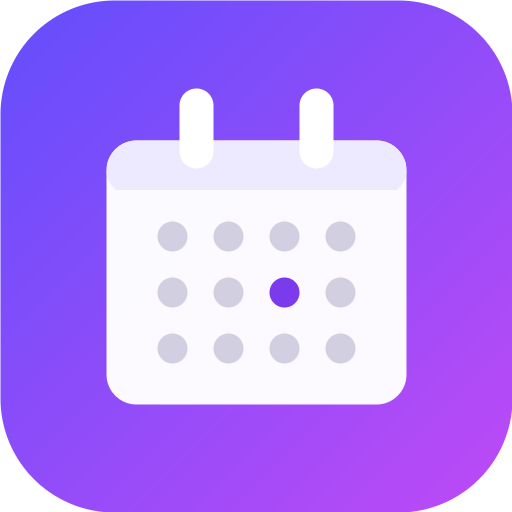
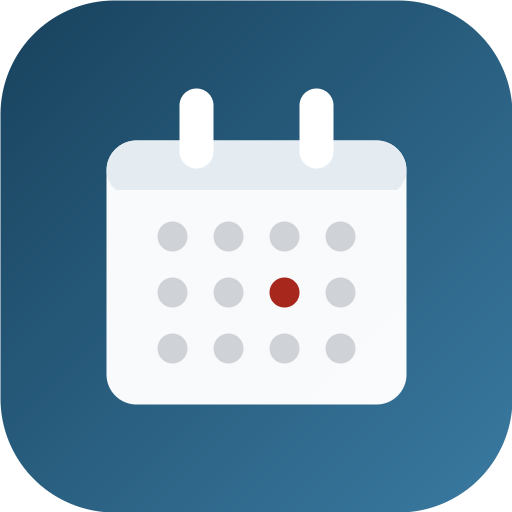
Restyle: ink on paper, and drop the generic identity
The old look was competent but templated -- a violet-to-magenta gradient on
white, one radius and one shadow stamped on every block, a coloured rail down
the side of every card, emoji standing in for illustration. Every one of those
is on the list of things that make a design read as generated rather than
designed, and together they said nothing about what this app is for.

KevCal's subject is paper: school letters, appointment cards, franked
reminders. The design now comes from there.

Colour. Ground is #fcfbf8, a barely-warm white that reads as stock rather than
as default grey; ink is #15161a; hairlines are the colour of a ruled form. The
accent is a single deep ink blue, #1b4965 -- the colour of a pen on a form --
and the two-hue gradient is gone entirely, replaced by a tonal one where a
gradient still earns its place. Semantic colour stays separate from the accent
and does real work: stamp red for deadlines, amber for "worth a check".

Type. Three roles, all native: ui-serif (New York on Apple platforms) for
display, the system sans for interface, mono for quoted source text. No webfont
on purpose -- this app has to work with the wifi off, and it should not announce
every page view to a font host.

The date chip is now a date stamp: ruled block, month in tracked caps, the day
set in the serif and tinted stamp red when it is a deadline. It is the thing
you look at most, so it is the one place the design raises its voice.
[…]

diff --git a/public/styles.css b/public/styles.css
@@ -3,33 +3,41 @@
    for is the moment the letter is in your hand. */
 
 :root {
-  --bg:        #f4f3ef;
-  --bg-2:      #eceae4;
+  /* Paper, ink, and a ruled hairline. The neutrals lean very slightly warm so
+     they read as stock rather than as default grey; the accent is cool against
+     them on purpose. */
+  --bg:        #fcfbf8;
+  --bg-2:      #f3f1ea;
   --surface:   #ffffff;
-  --surface-2: #f7f6f3;
-  --ink:       #17161c;
-  --ink-2:     #3d3b47;
-  --muted:     #74717f;
-  --line:      #e4e1da;
-  --line-2:    #d6d2c9;
+  --surface-2: #f7f5f0;
+  --ink:       #15161a;
+  --ink-2:     #3f414a;
+  --muted:     #71727d;
+  --line:      #e7e4dc;
+  --line-2:    #d5d1c6;
 
-  --brand:     #6d4efc;
-  --brand-2:   #b44cf0;
+  /* One accent: ink blue, the colour of a pen on a form. */
+  --brand:     #1b4965;
+  --brand-2:   #2f6d92;
   --brand-ink: #ffffff;
-  --brand-soft:#efeaff;
+  --brand-soft:#e8eff4;
 
-  --warn:      #b26a00;
-  --warn-bg:   #fff4e0;
-  --warn-line: #f2c879;
-  --stop:      #c62f45;
-  --stop-bg:   #ffeced;
-  --stop-line: #f0a3ad;
-  --ok:        #0a8a5f;
-  --ok-bg:     #e4f7ef;
+  /* Semantic, and deliberately not the accent: a deadline is stamp red. */
+  --warn:      #8a5a00;
+  --warn-bg:   #fdf3de;
+  --warn-line: #e8cd93;
+  --stop:      #a8271d;
+  --stop-bg:   #fbeae8;
+  --stop-line: #e5b0aa;
+  --ok:        #1a6b4c;
+  --ok-bg:     #e6f2ec;
 
-  --grad: linear-gradient(135deg, var(--brand), var(--brand-2));
-  --r:    18px;
-  --r-sm: 12px;
+  --display: ui-serif, 'New York', Iowan Old Style, Georgia, serif;
+
+  /* Tonal, not a hue shift — the two-colour gradient is gone. */
+  --grad: linear-gradient(165deg, var(--brand-2), var(--brand));
+  --r:    14px;
+  --r-sm: 10px;
   --shadow:    0 1px 2px rgba(20,16,40,.05), 0 8px 24px -12px rgba(20,16,40,.18);
   --shadow-lg: 0 12px 48px -12px rgba(20,16,40,.35);
   --spring: cubic-bezier(.22,1.2,.36,1);
@@ -41,28 +49,28 @@
 
 @media (prefers-color-scheme: dark) {
   :root {
-    --bg:        #0d0d13;
-    --bg-2:      #14141c;
-    --surface:   #1a1a24;
-    --surface-2: #22222e;
-    --ink:       #f2f1f7;
-    --ink-2:     #d3d1de;
-    --muted:     #9a97a9;
-    --line:      #2b2b38;
-    --line-2:    #3a3a4a;
+    --bg:        #121317;
+    --bg-2:      #181a1f;
+    --surface:   #1b1d22;
+    --surface-2: #23262c;
+    --ink:       #f1f0ec;
+    --ink-2:     #cfcfc9;
+    --muted:     #94958f;
+    --line:      #2c2f35;
+    --line-2:    #3c4047;
 
-    --brand:     #8b74ff;
-    --brand-2:   #cd6dff;
-    --brand-soft:#241f43;
+    --brand:     #7fb3d0;
+    --brand-2:   #5d93b3;
+    --brand-soft:#1c2c36;
 
-    --warn:      #f6c063;
-    --warn-bg:   #33270f;
-    --warn-line: #6b5220;
-    --stop:      #ff8b9b;
-    --stop-bg:   #391a20;
-    --stop-line: #6e2f3a;
-    --ok:        #4fd6a3;
-    --ok-bg:     #10312a;
+    --warn:      #e8b765;
+    --warn-bg:   #2e2412;
+    --warn-line: #5d4a24;
+    --stop:      #e89189;
+    --stop-bg:   #331c1a;
+    --stop-line: #6b3630;
+    --ok:        #6dc3a1;
+    --ok-bg:     #142a23;
 
     --shadow:    0 1px 2px rgba(0,0,0,.4), 0 8px 24px -12px rgba(0,0,0,.7);
     --shadow-lg: 0 12px 48px -12px rgba(0,0,0,.8);
@@ -85,9 +93,11 @@ body {
 
 body.locked { overflow: hidden; }
 
-h1, h2, h3 { margin: 0; letter-spacing: -0.02em; line-height: 1.15; }
-h1 { font-size: 30px; font-weight: 800; }
-h2 { font-size: 20px; font-weight: 750; }
+h1, h2, h3 { margin: 0; line-height: 1.15; text-wrap: balance; }
+h1, h2 { font-family: var(--display); font-weight: 600; letter-spacing: -0.01em; }
+h1 { font-size: 31px; }
+h2 { font-size: 21px; }
+h3 { letter-spacing: -0.01em; }
 h3 { font-size: 16px; font-weight: 700; }
 p  { margin: 0; }
 b  { font-weight: 700; }
@@ -112,7 +122,7 @@ b  { font-weight: 700; }
 .topbar.stuck { border-bottom-color: var(--line); }
 .brand { display: flex; align-items: center; gap: 8px; font-weight: 800; font-size: 17px; letter-spacing: -.02em; }
 .brand img { border-radius: 7px; }
-.brand b { background: var(--grad); -webkit-background-clip: text; background-clip: text; color: transparent; }
+.brand b { color: var(--brand); font-weight: 700; }
 
 .chip-btn {
   font: inherit; font-size: 12px; font-weight: 650;
@@ -159,9 +169,9 @@ main { max-width: 620px; margin: 0 auto; padding: 0 16px; }
 
 .fab {
   justify-self: center;
-  width: 60px; height: 60px; margin-top: -22px;
-  border: 0; border-radius: 22px; cursor: pointer;
-  background: var(--grad); color: #fff;
+  width: 58px; height: 58px; margin-top: -20px;
+  border: 0; border-radius: 17px; cursor: pointer;
+  background: var(--brand); color: #fff;
   box-shadow: 0 8px 20px -6px color-mix(in srgb, var(--brand) 70%, transparent), 0 2px 6px rgba(0,0,0,.2);
   display: grid; place-items: center;
   transition: transform .25s var(--spring);
@@ -198,29 +208,38 @@ main { max-width: 620px; margin: 0 auto; padding: 0 16px; }
 .item:active { transform: scale(.985); }
 @keyframes pop { from { opacity: 0; transform: translateY(10px) scale(.98); } to { opacity: 1; transform: none; } }
 
-.item::before {
-  content: ''; position: absolute; left: 0; top: 0; bottom: 0; width: 4px;
-  background: transparent;
-}
-.item.stop::before { background: var(--stop); }
-.item.warn::before { background: var(--warn); }
-.item.stop { border-color: var(--stop-line); }
-.item.warn { border-color: var(--warn-line); }
+/* No accent rail. Severity is already carried by the stamp and the flag block;
+   a coloured bar on every card only flattens the hierarchy it claims to build. */
+.item.stop { border-color: var(--stop-line); background: color-mix(in srgb, var(--stop-bg) 42%, var(--surface)); }
+.item.warn { border-color: var(--warn-line); background: color-mix(in srgb, var(--warn-bg) 42%, var(--surface)); }
 .item.gone { opacity: .45; }
 
+/* A date stamp, not a chip: ruled block, month in tracked caps, day set in the
+   serif. It is the thing you look at most on this screen, so it is the one
+   place the design raises its voice. */
 .daychip {
-  flex: 0 0 auto; width: 52px; border-radius: 14px; overflow: hidden;
-  border: 1px solid var(--line); background: var(--surface-2); text-align: center;
+  flex: 0 0 auto; width: 54px; border-radius: 6px; overflow: hidden;
+  border: 1px solid var(--brand); background: var(--surface); text-align: center;
+  box-shadow: inset 0 0 0 2px var(--surface), inset 0 0 0 3px color-mix(in srgb, var(--brand) 18%, transparent);
 }
 .daychip .m {
-  font-size: 10px; font-weight: 800; letter-spacing: .08em; text-transform: uppercase;
-  padding: 3px 0; background: var(--grad); color: #fff;
+  font-size: 9.5px; font-weight: 700; letter-spacing: .14em; text-transform: uppercase;
+  padding: 3px 0 2px; background: var(--brand); color: #fff;
 }
-.daychip .d { font-size: 21px; font-weight: 800; padding: 4px 0 2px; font-variant-numeric: tabular-nums; }
-.daychip .w { font-size: 9.5px; font-weight: 700; color: var(--muted); padding-bottom: 5px; text-transform: uppercase; letter-spacing: .05em; }
+.daychip .d {
+  font-family: var(--display); font-size: 25px; font-weight: 600;
+  padding: 3px 0 0; color: var(--brand); font-variant-numeric: tabular-nums lining-nums;
+}
+.daychip .w {
+  font-size: 9px; font-weight: 700; color: var(--muted); padding-bottom: 5px;
+  text-transform: uppercase; letter-spacing: .1em;
+}
+.daychip.none { border-color: var(--line-2); box-shadow: none; }
 .daychip.none .m { background: var(--line-2); color: var(--ink-2); }
-.daychip.none .d { font-size: 17px; }
-.daychip.due .m { background: linear-gradient(135deg, #e0602f, #cf2f5e); }
+.daychip.none .d { font-size: 19px; color: var(--muted); }
+.daychip.due { border-color: var(--stop); box-shadow: inset 0 0 0 2px var(--surface), inset 0 0 0 3px color-mix(in srgb, var(--stop) 18%, transparent); }
+.daychip.due .m { background: var(--stop); }
+.daychip.due .d { color: var(--stop); }
 
 .item-main { flex: 1; min-width: 0; }
 .item-title { font-weight: 680; font-size: 15.5px; letter-spacing: -.01em; overflow-wrap: anywhere; }
@@ -247,7 +266,7 @@ main { max-width: 620px; margin: 0 auto; padding: 0 16px; }
   font-size: 13.5px; line-height: 1.42; color: var(--ink-2);
 }
 .flag.stop { background: var(--stop-bg); border-color: var(--stop-line); }
-.flag b { display: block; font-size: 11px; text-transform: uppercase; letter-spacing: .06em; margin-bottom: 3px; color: var(--warn); }
+.flag b { display: block; font-size: 10px; text-transform: uppercase; letter-spacing: .12em; margin-bottom: 4px; color: var(--warn); }
 .flag.stop b { color: var(--stop); }
 .opts { display: flex; flex-wrap: wrap; gap: 6px; margin-top: 9px; }
 .opt {
@@ -257,11 +276,14 @@ main { max-width: 620px; margin: 0 auto; padding: 0 16px; }
   transition: transform .15s var(--spring);
 }
 .opt:active { transform: scale(.94); }
-.opt.pick { background: var(--ink); color: var(--bg); border-color: var(--ink); }
+/* The chosen option is the accent, not pure black — black was the only
+   element on the page that belonged to no palette. */
+.opt.pick { background: var(--brand); color: #fff; border-color: var(--brand); }
 
 .section-label {
-  font-size: 12px; font-weight: 750; text-transform: uppercase; letter-spacing: .07em;
-  color: var(--muted); margin: 16px 2px 2px;
+  font-size: 10.5px; font-weight: 700; text-transform: uppercase; letter-spacing: .13em;
+  color: var(--muted); margin: 18px 2px 4px;
+  padding-bottom: 6px; border-bottom: 1px solid var(--line);
 }
 .section-label:first-child { margin-top: 4px; }
 
@@ -434,13 +456,14 @@ input[type=date], input[type=time] { min-height: 44px; }
 
 .found { display: flex; align-items: center; gap: 14px; padding: 22px 2px 16px; }
 .found-n {
-  width: 62px; height: 62px; border-radius: 20px; background: var(--grad); color: #fff;
-  display: grid; place-items: center; font-size: 27px; font-weight: 800;
-  font-variant-numeric: tabular-nums;
+  width: 62px; height: 62px; border-radius: 8px; background: var(--brand); color: #fff;
+  display: grid; place-items: center; font-size: 30px;
+  font-family: var(--display); font-weight: 600;
+  font-variant-numeric: tabular-nums lining-nums;
   box-shadow: 0 10px 24px -10px color-mix(in srgb, var(--brand) 80%, transparent);
   animation: pop .5s var(--spring);
 }
-.found-txt b { display: block; font-size: 19px; font-weight: 750; letter-spacing: -.02em; }
+.found-txt b { display: block; font-family: var(--display); font-size: 20px; font-weight: 600; }
 .found-txt i { font-style: normal; color: var(--muted); font-size: 14px; }
 
 .banner {
@@ -481,8 +504,8 @@ input[type=date], input[type=time] { min-height: 44px; }
 .scan-status p { font-size: 16px; font-weight: 620; color: var(--ink-2); min-height: 24px; }
 .dots { display: flex; gap: 6px; justify-content: center; margin-bottom: 10px; }
 .dots i { width: 7px; height: 7px; border-radius: 50%; background: var(--brand); animation: bounce 1.1s infinite; }
-.dots i:nth-child(2) { animation-delay: .15s; background: color-mix(in srgb, var(--brand) 60%, var(--brand-2)); }
-.dots i:nth-child(3) { animation-delay: .3s; background: var(--brand-2); }
+.dots i:nth-child(2) { animation-delay: .15s; background: color-mix(in srgb, var(--brand) 70%, var(--muted)); }
+.dots i:nth-child(3) { animation-delay: .3s; background: var(--muted); }
 @keyframes bounce { 0%,60%,100% { transform: translateY(0); opacity: .45; } 30% { transform: translateY(-7px); opacity: 1; } }
 
 /* source viewer --------------------------------------------------------- */
@@ -558,3 +581,7 @@ input[type=date], input[type=time] { min-height: 44px; }
 .pricetable .m { flex: 1; min-width: 0; overflow-wrap: anywhere; }
 .pricetable .p { color: var(--muted); font-variant-numeric: tabular-nums; }
 .pricetable .r.now .p { color: var(--brand); }
+
+/* Empty states lean on type and a ruled edge rather than a decorative glyph. */
+.empty b { font-family: var(--display); font-weight: 600; font-size: 19px; }
+.empty { border-style: dashed; border-width: 1px; }

diff --git a/public/app.js b/public/app.js
@@ -149,7 +149,7 @@ async function loadDates() {
     : 'Tap the camera and point it at something with a date on it.';
 
   if (!live.length) {
-    list.innerHTML = `<div class="empty"><span class="g">📸</span><b>No dates yet</b>
+    list.innerHTML = `<div class="empty"><b>No dates yet</b>
       A school letter, a poster, a timetable, an appointment card — anything.</div>`;
     return;
   }
@@ -640,7 +640,7 @@ async function loadImports() {
   const { batches = [] } = await api('/api/batches');
   const list = $('#importsList');
   if (!batches.length) {
-    list.innerHTML = `<div class="empty"><span class="g">📥</span><b>No imports yet</b>Every capture shows up here, and every one can be undone whole.</div>`;
+    list.innerHTML = `<div class="empty"><b>No imports yet</b>Every capture shows up here, and every one can be undone whole.</div>`;
     return;
   }
   list.innerHTML = batches.map((b) => {
@@ -724,7 +724,7 @@ async function loadShares() {
   const { shares = [] } = await api('/api/shares');
   const list = $('#sharedList');
   if (!shares.length) {
-    list.innerHTML = `<div class="empty"><span class="g">🔗</span><b>Nothing shared</b>Share an import and the link shows up here, with a switch to kill it.</div>`;
+    list.innerHTML = `<div class="empty"><b>Nothing shared</b>Share an import and the link shows up here, with a switch to kill it.</div>`;
     return;
   }
   list.innerHTML = shares.map((s) => `<div class="card">

diff --git a/public/index.html b/public/index.html
@@ -5,8 +5,8 @@
 <meta name="viewport" content="width=device-width, initial-scale=1, viewport-fit=cover, maximum-scale=5">
 <title>KevCal</title>
 <meta name="description" content="Point your phone at anything with a date on it.">
-<meta name="theme-color" content="#f7f6f3" media="(prefers-color-scheme: light)">
-<meta name="theme-color" content="#0e0e14" media="(prefers-color-scheme: dark)">
+<meta name="theme-color" content="#fcfbf8" media="(prefers-color-scheme: light)">
+<meta name="theme-color" content="#121317" media="(prefers-color-scheme: dark)">
 <meta name="apple-mobile-web-app-capable" content="yes">
 <meta name="apple-mobile-web-app-status-bar-style" content="black-translucent">
 <meta name="apple-mobile-web-app-title" content="KevCal">
